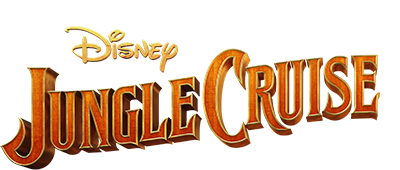
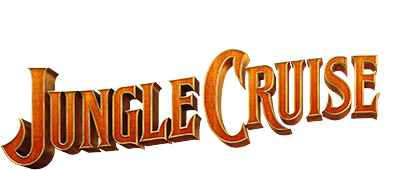
background

diff --git a/index.html b/index.html
@@ -8,9 +8,9 @@
     <link rel="stylesheet" href="./styles/style.css" />
   </head>
   <body>
-    <h1>Jungle Cruise!</h1>
-    <h4>Dodge the obstacles!</h4>
-    <canvas width="600" height="700"></canvas>
+    <img src="./Assets/header.png" alt="Jungle Cruise" />
+    <h2>Dodge the obstacles!</h2>
+    <canvas width="600" height="600"> </canvas>
     <script src="/Javascript/index.js"></script>
   </body>
 </html>

diff --git a/styles/style.css b/styles/style.css
@@ -8,4 +8,5 @@ body {
 canvas {
   border: 3px solid black;
   background-color: lightblue;
+  opacity: initial;
 }
